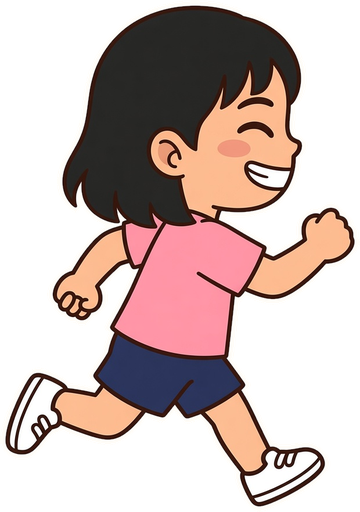
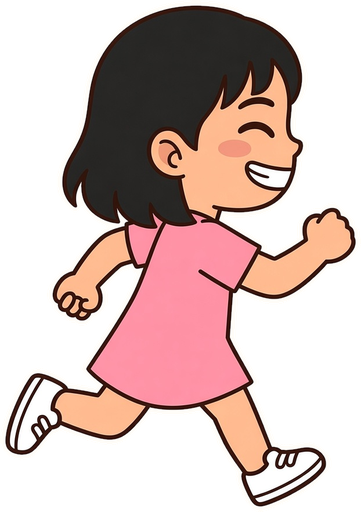
妹の絵をワンピース・ボブの髪にそろえる (#25)
追いかける・ひと息の絵を差し替え、だっこの絵と服・髪型をそろえた。

Claude-Session: https://claude.ai/code/session_01N2RdfoDzKy9hRRd1tp6u73

diff --git a/src/render/stickers.ts b/src/render/stickers.ts
@@ -88,7 +88,7 @@ const KINGS: Record<"stinkKing" | "camelKing" | "queen", ["stinkbug" | "camel" |
 
 /**
  * 子ども（仮の絵。public/kids/*.png があればそちらを使う）。右向き。hug は猫をだっこしている絵（猫は描かず、腕で輪を作る）。
- * お兄ちゃん6さい: 短い黒髪・青いTシャツ・半ズボン。妹3さい: ふたつ結び・ピンクのワンピース。
+ * お兄ちゃん6さい: 短い黒髪・青いTシャツ・半ズボン。妹3さい: 黒髪のボブ・ピンクのワンピース。
  */
 export function kidCanvas(type: "boy" | "girl", hug = false): HTMLCanvasElement {
   const girl = type === "girl", W = 220, H = girl ? 300 : 360;
